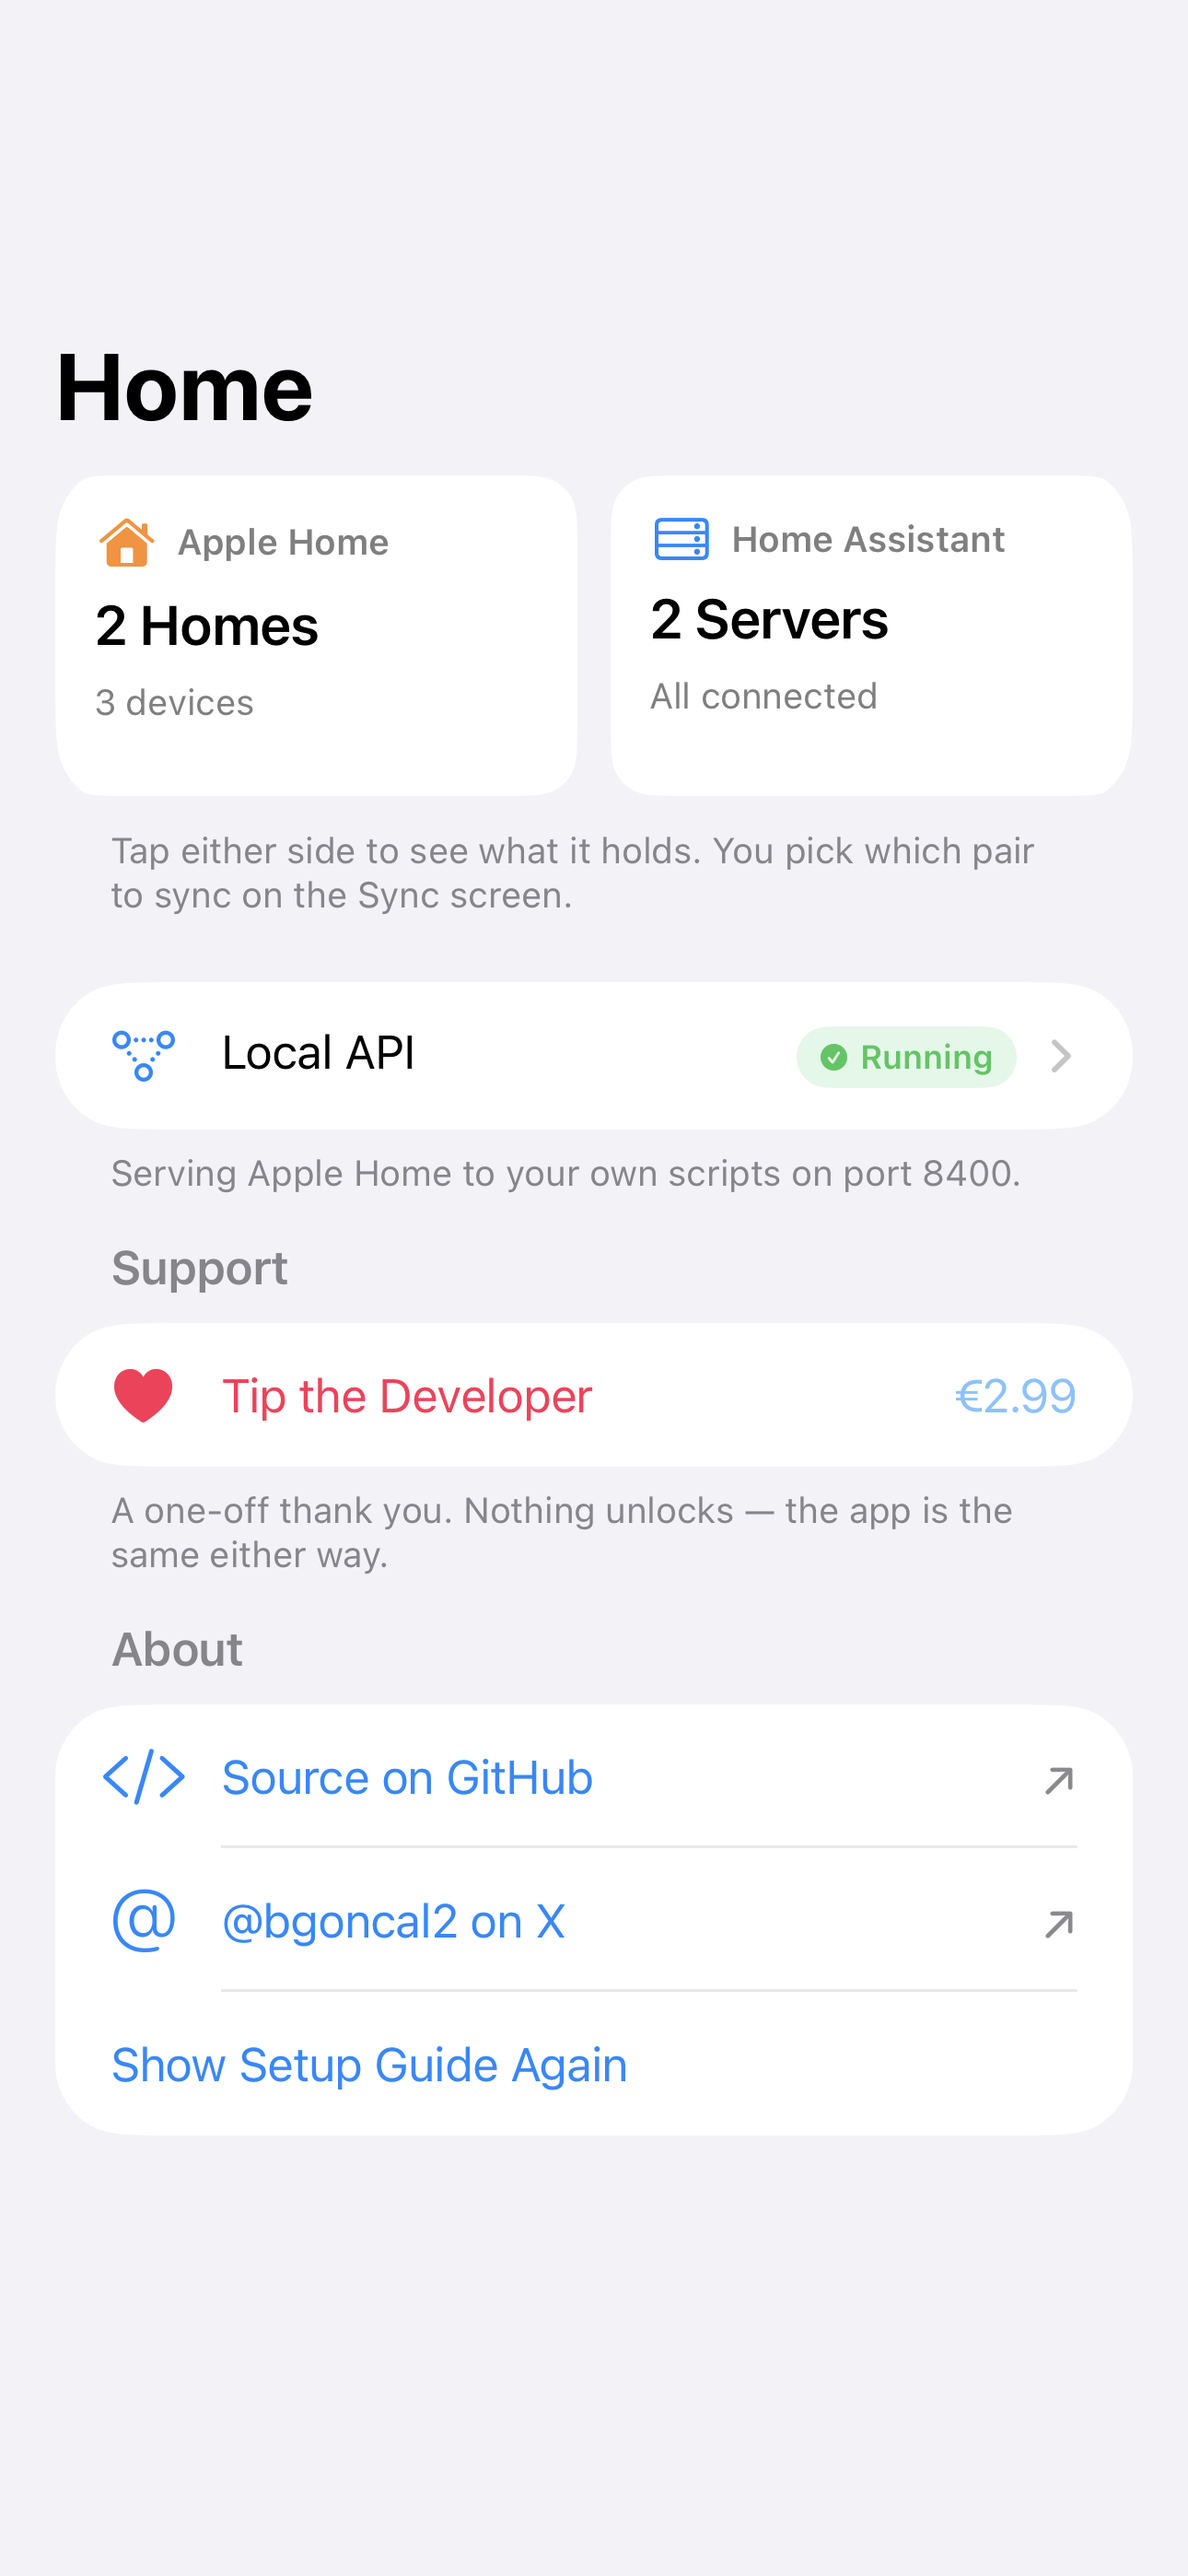
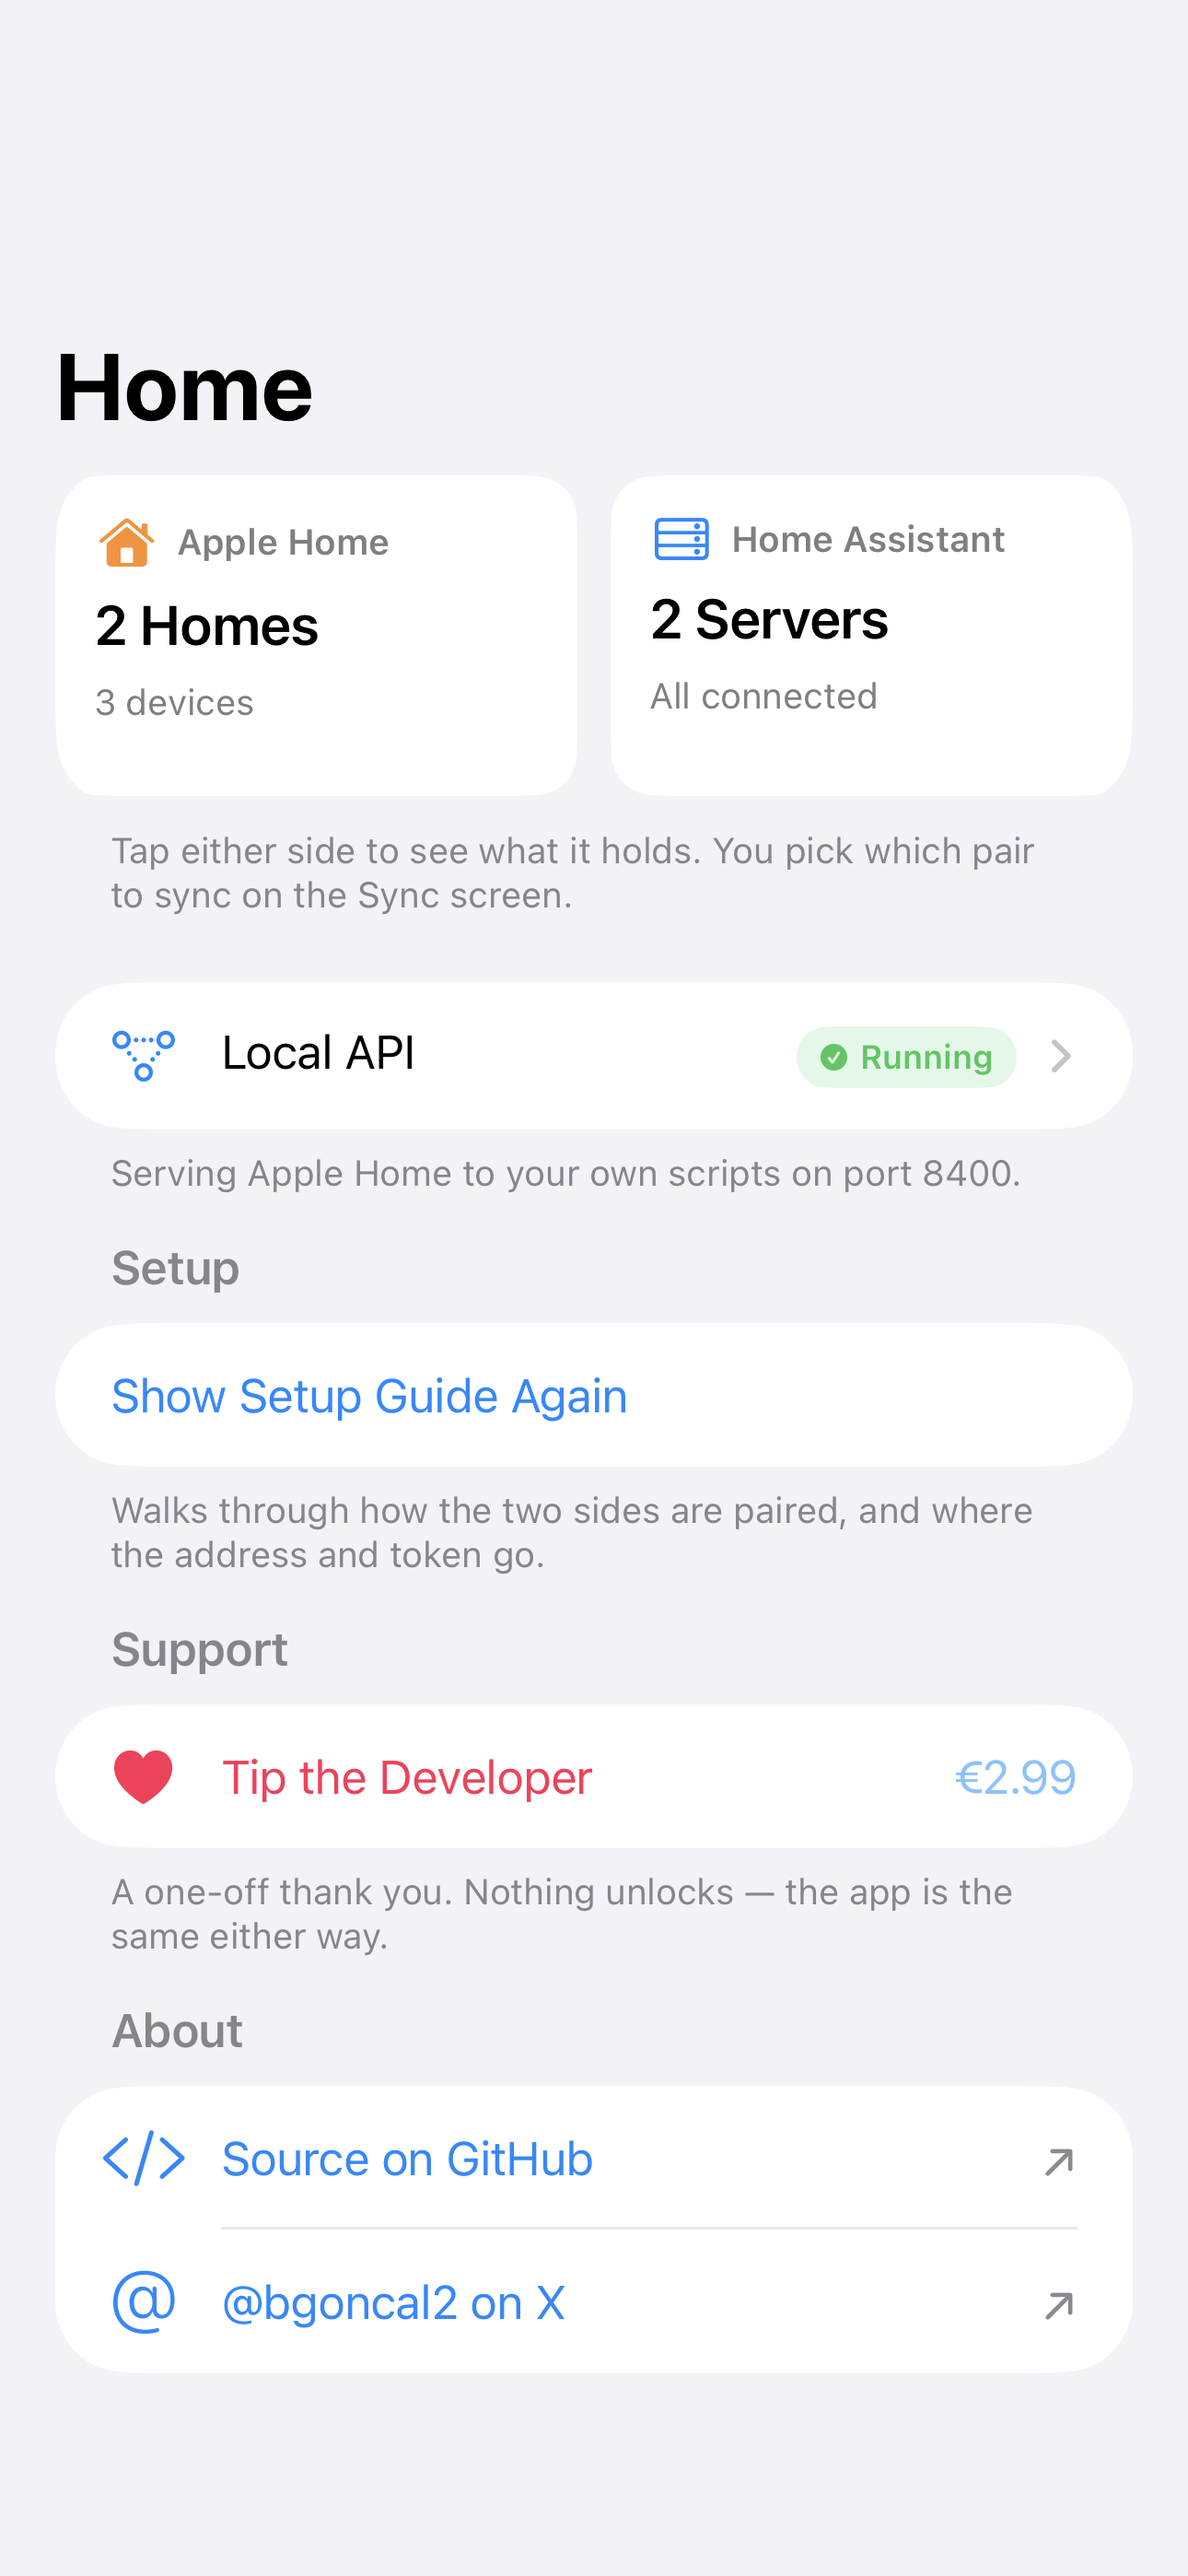
Give the setup guide its own section on Home
It was the last row of About, under the repository and X links, which read as an
afterthought next to two outbound links. It is now its own Setup section between the
local API and the tip, with a footer saying what the guide covers.

78 tests green on iPhone and Mac Catalyst.

diff --git a/HomeKitBridge/Views/HomeView.swift b/HomeKitBridge/Views/HomeView.swift
@@ -176,6 +176,7 @@ struct HomeContent: View {
                 }
             }
 
+            setupSection
             supportSection
             aboutSection
         }
@@ -223,6 +224,18 @@ struct HomeContent: View {
         guard !connections.isEmpty else { return "Add your first one" }
         let connected = connections.filter(\.state.isConnected).count
         return connected == connections.count ? "All connected" : "\(connected) of \(connections.count) connected"
+    }
+
+    // MARK: Setup
+
+    private var setupSection: some View {
+        Section {
+            Button("Show Setup Guide Again", action: onShowSetupAgain)
+        } header: {
+            Text("Setup")
+        } footer: {
+            Text("Walks through how the two sides are paired, and where the address and token go.")
+        }
     }
 
     // MARK: Support
@@ -284,8 +297,6 @@ struct HomeContent: View {
                     Label("@bgoncal2 on X", systemImage: "at")
                 }
             }
-
-            Button("Show Setup Guide Again", action: onShowSetupAgain)
         } header: {
             Text("About")
         }
